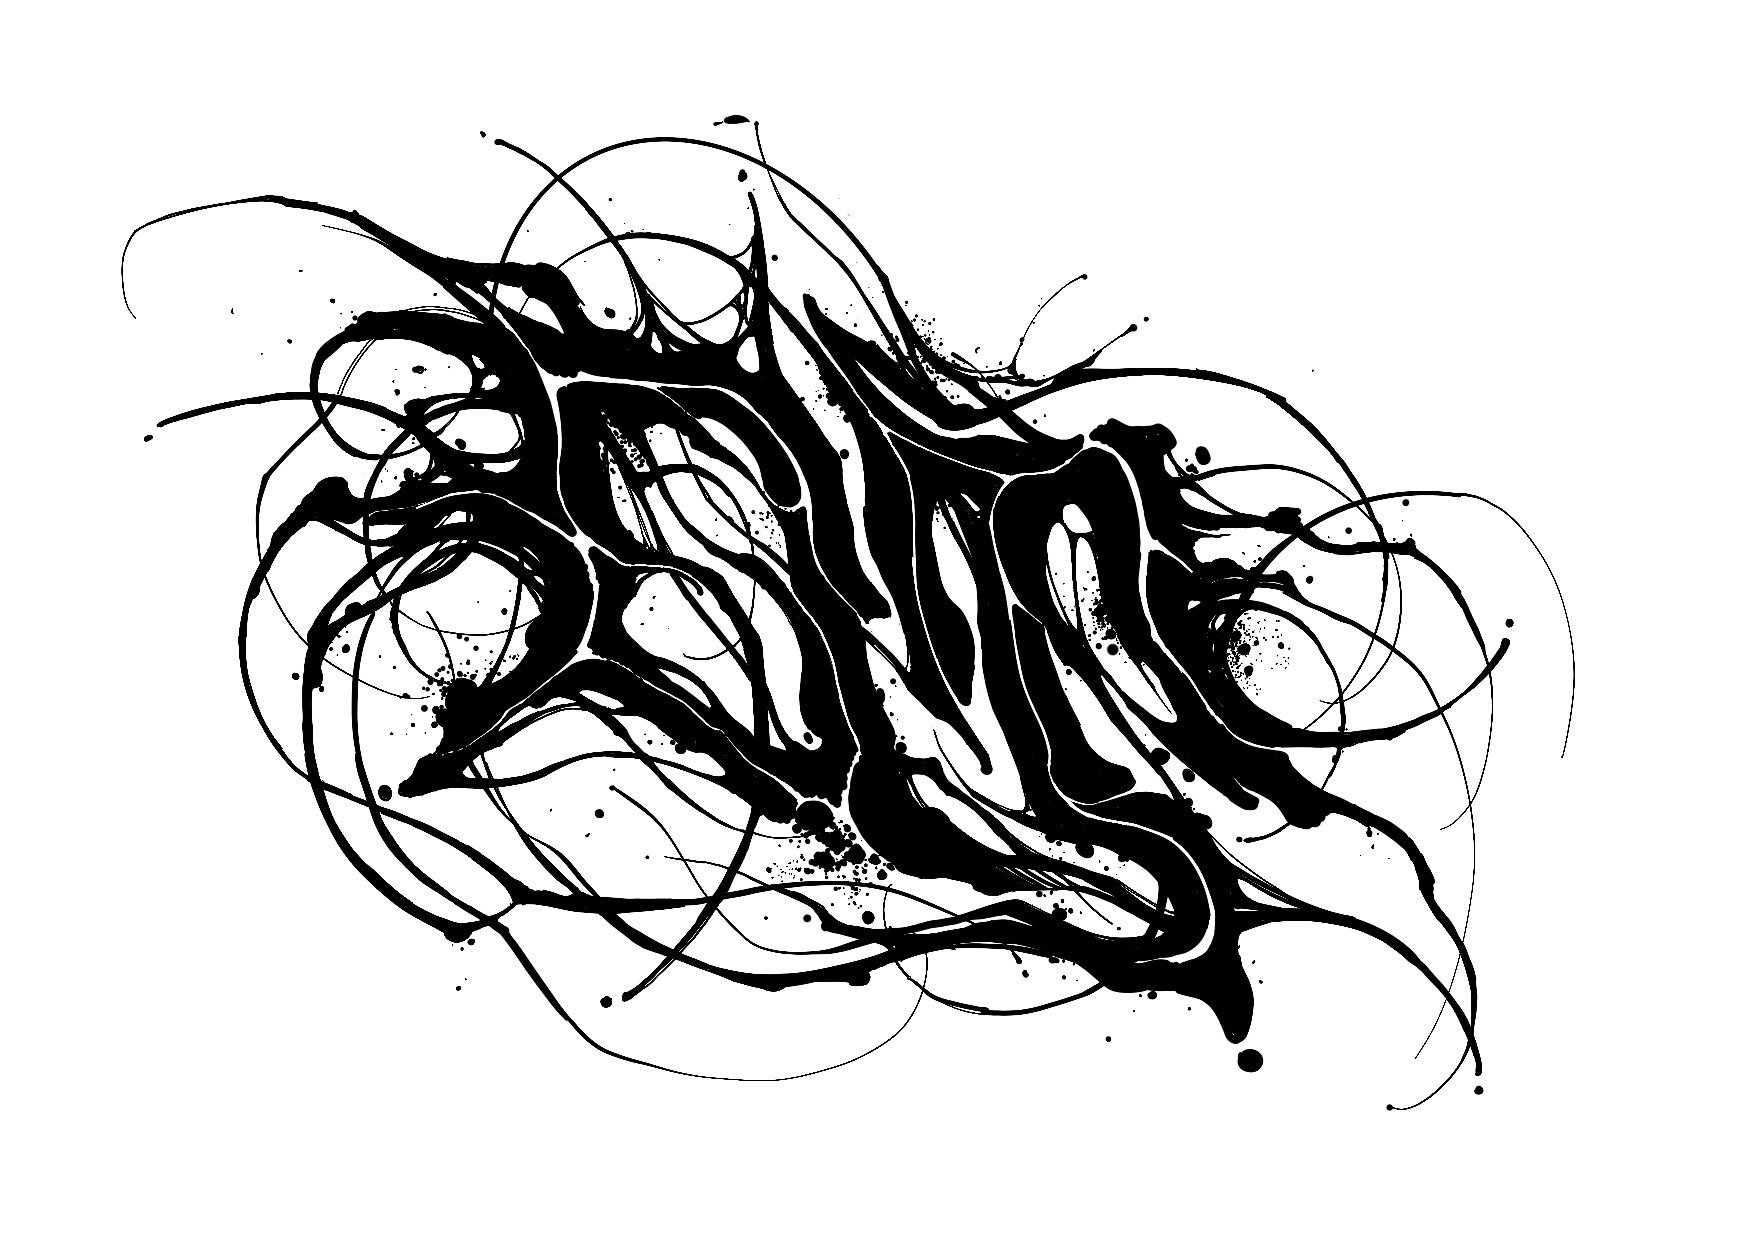
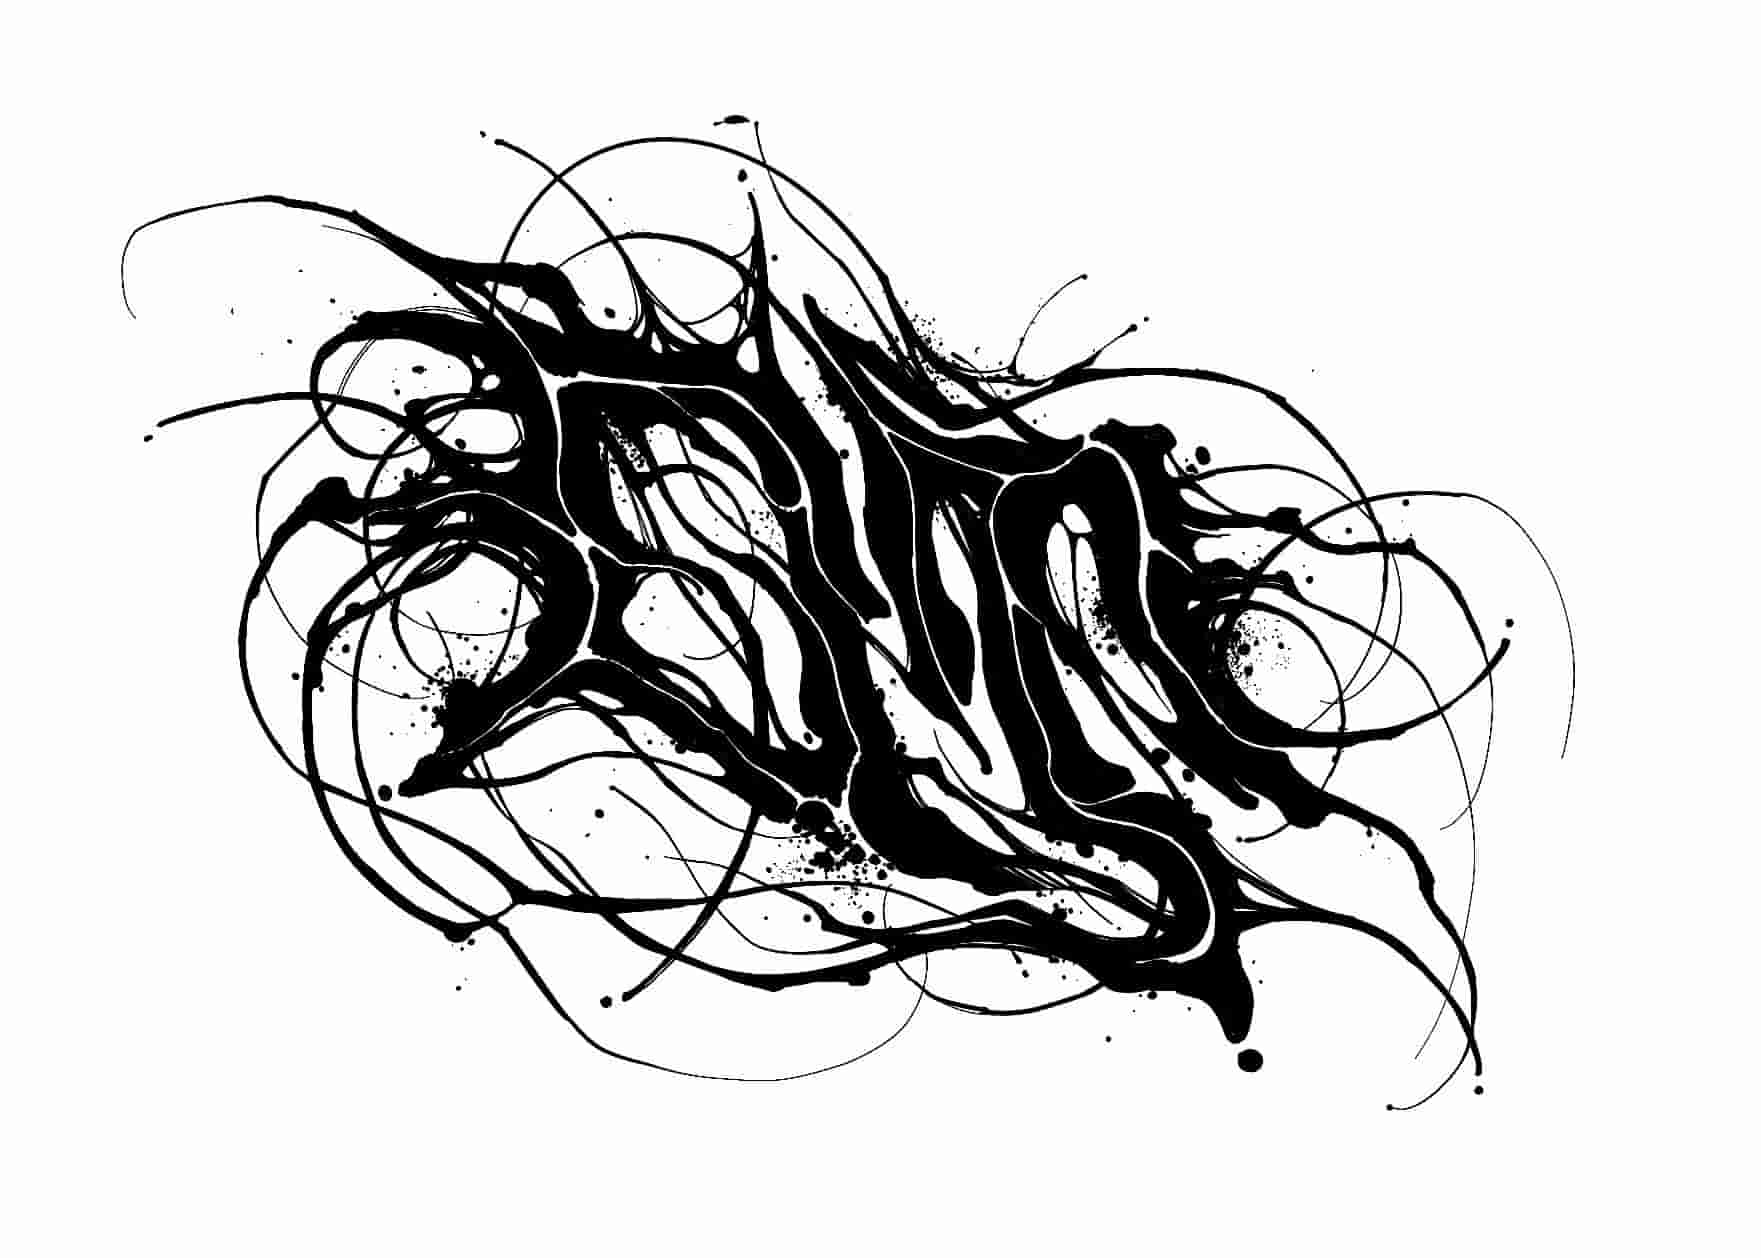
12.18

diff --git a/src/views/home/home.vue b/src/views/home/home.vue
@@ -219,7 +219,7 @@ export default {
   }
 
   .NavMiddleBg {
-    background: url('~@/assets/home/NAV.png') no-repeat center center;
+    background: url('~@/assets/home/NAV_compressed.png') no-repeat center center;
     background-size: cover;
     width: 330px;
     height: 400px;
@@ -237,14 +237,14 @@ export default {
    .rbg{
     width: 510px;
     height: 1095px;
-    background-image: url('~@/assets/home/midbg2.png');
+    background-image: url('~@/assets/home/midbg2_compressed.png');
     background-size: cover;
     right: -200px;
    }
    .lbg{
     width: 510px;
     height: 1095px;
-    background-image: url('~@/assets/home/midbg1.png');
+    background-image: url('~@/assets/home/midbg1_compressed.png');
     background-size: cover;
     left: -200px;
    }
